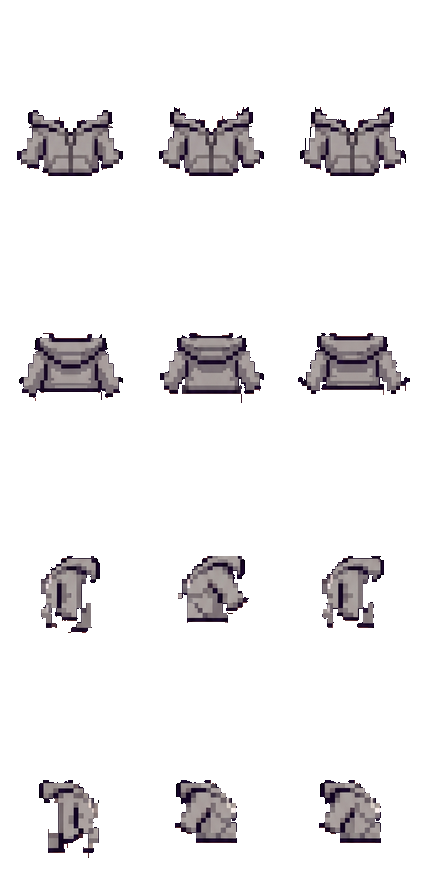
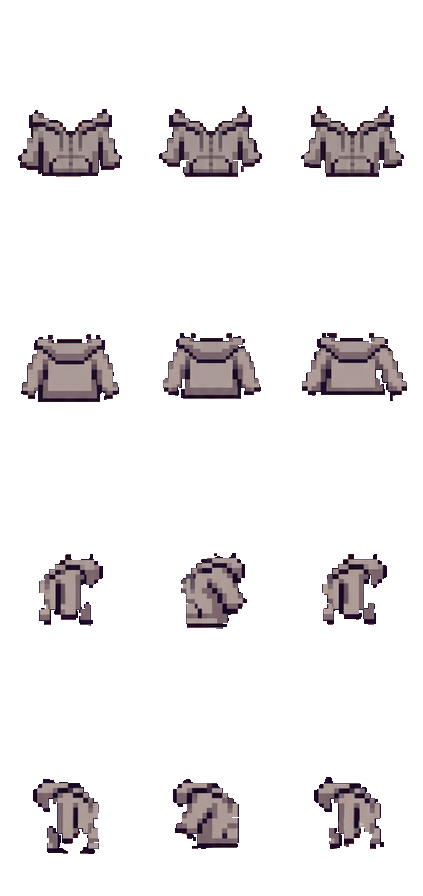
fix(char): 여캐 후드집업 재생성분 반영(우측 정지 해결) + 워터마크 제거, 흰티 최신 리터치본 반영

diff --git a/index.html b/index.html
@@ -2104,7 +2104,7 @@ window.CHAR_ITEMS = [
   // { id: 'hat_f_ladodgers', slot: 'hat', body: 'human_f', name: 'LA 볼캡', price: 0, sheet: 'char/items/hat_f_ladodgers.png', thumb: 'char/items/hat_ladodgers_thumb.png', hairVariants: { hair_f_basic: null, hair_f_bob_bang: null, hair_f_long: null } }
 ];
 // 아이템 이미지 캐시버전 — 아이템 시트/썸네일 바꿀 때마다 올리면 SW 캐시 무시하고 새로 받음
-window._ITEM_V = 107;
+window._ITEM_V = 108;
 window._iv = function (u) { return u ? (u + (u.indexOf('?') < 0 ? '?v=' : '&v=') + (window._ITEM_V || 1)) : u; };
 window.CHAR_FREE = ['hair_short', 'top_tee', 'mask_simple'];
 window.CHAR_SHAPES = {
@@ -7667,7 +7667,7 @@ document.getElementById('create-crew-panel').querySelector('.back-btn').addEvent
 
 // ===== 서비스 워커 등록 (PWA 홈화면 설치) =====
 // ★배포할 때 sw.js 의 murpy-vNNN 과 **같은 숫자로** 올릴 것. 이게 CDN 캐시를 깬다.
-window._SW_V = '348';
+window._SW_V = '349';
 // 마이페이지 하단 앱 정보에 현재 버전 표시
 try {
   window.addEventListener('load', function () {

diff --git a/sw.js b/sw.js
@@ -1,7 +1,7 @@
 // 배포마다 이 버전을 올려야 자동 새버전 적용(새로고침)이 동작함
-const CACHE_NAME = 'murpy-v348';
-const STATIC_CACHE = 'murpy-static-v348';
-const CDN_CACHE = 'murpy-cdn-v348';
+const CACHE_NAME = 'murpy-v349';
+const STATIC_CACHE = 'murpy-static-v349';
+const CDN_CACHE = 'murpy-cdn-v349';
 // 이미지 캐시는 버전 안 붙임 → 코드/HTML 배포해도 유지(URL이 곧 버전)
 const IMG_CACHE = 'murpy-img';
 

diff --git a/char/strip_wm_r3c2.py b/char/strip_wm_r3c2.py
@@ -1,0 +1,106 @@
+# -*- coding: utf-8 -*-
+"""제미나이 워터마크(✦) 제거 — 어떤 시트에도 쓰는 범용판.
+
+■ 알아낸 패턴 (2026-08-05)
+✦ 는 **항상 우하단 프레임 = 4행 3열(우측 걸음2)** 에 찍힌다.
+반투명 흰색이라 밑에 뭐가 있든 그 자리를 밝게 만든다.
+  - 어두운 옷(반바지) 위 → 어두운 것만 고르는 필터에 안 걸려 문제가 안 났다
+  - 흰 옷·살색 위 → 밝은 것을 고르는 필터를 그대로 통과해 옷으로 딸려 들어온다
+
+■ 방식
+없는 픽셀을 지어내지 않는다. **같은 행 c0 에서 그 자리를 그대로 옮겨 심는다.**
+✦ 판정 = "도너보다 눈에 띄게 밝아진 자리". 색으로 찾으면 못 잡는다
+(살색 위에서는 '밝은 살색'이라 무채색 조건에 안 걸린다 — 실제로 그렇게 놓쳤다).
+
+    python char/strip_wm_r3c2.py <시트.png>            # 찾기만
+    python char/strip_wm_r3c2.py <시트.png> --apply    # 제자리 수정(백업 남김)
+"""
+from __future__ import annotations
+
+import argparse
+import shutil
+import sys
+from pathlib import Path
+
+import numpy as np
+from PIL import Image
+from scipy import ndimage
+
+if hasattr(sys.stdout, "reconfigure"):
+    sys.stdout.reconfigure(encoding="utf-8", errors="replace")
+
+BRIGHT = 18      # 도너보다 이만큼 밝아지면 ✦ 로 본다
+GROW = 2         # 옅은 가장자리까지 걷어내려고 넓히는 횟수
+# ★몸통 구간으로 좁힌다. 안 좁히면 **다리가 가장 큰 덩어리로 잡힌다** —
+#   걸음 프레임마다 다리 위치가 달라 통째로 '밝아진 곳'이 되기 때문이다.
+#   실제로 후드집업에서 다리(7438px)를 워터마크(3512px)로 오인해 이식했다가 다리를 깨뜨렸다.
+ROI_Y0, ROI_Y1 = 0.53, 0.80
+ROI_X0, ROI_X1 = 0.28, 0.74
+
+
+def find_and_fix(a: np.ndarray, apply: bool):
+    h, w = a.shape[0] // 4, a.shape[1] // 3
+    oy, ox = 3 * h, 2 * w
+    A = a.astype(int)
+    tgt = A[oy:oy + h, ox:ox + w]
+    don = A[oy:oy + h, 0:w]                      # 같은 행 c0
+
+    op = tgt[:, :, 3] >= 128
+    od = don[:, :, 3] >= 128
+    both = op & od
+    if both.sum() < 1000:
+        return None, "겹치는 영역이 너무 적다"
+
+    roi = np.zeros((h, w), bool)
+    roi[int(h * ROI_Y0):int(h * ROI_Y1), int(w * ROI_X0):int(w * ROI_X1)] = True
+    bright = both & roi & ((tgt[:, :, :3].mean(axis=2) - don[:, :, :3].mean(axis=2)) > BRIGHT)
+    lab, n = ndimage.label(ndimage.binary_closing(bright, np.ones((3, 3), bool)), np.ones((3, 3), bool))
+    if not n:
+        return None, "밝아진 덩어리 없음 (✦ 가 없을 수 있다)"
+    sizes = ndimage.sum(bright, lab, range(1, n + 1))
+    wm = lab == int(np.argmax(sizes)) + 1
+    ys, xs = np.nonzero(wm)
+    info = (int(sizes.max()), int(xs.min()), int(xs.max()), int(ys.min()), int(ys.max()))
+
+    if apply:
+        m = ndimage.binary_dilation(wm, np.ones((3, 3), bool), iterations=GROW) & both
+        patch = a[oy:oy + h, 0:w]
+        dst = a[oy:oy + h, ox:ox + w]
+        dst[m] = patch[m]
+        info = info + (int(m.sum()),)
+    return info, None
+
+
+def main() -> int:
+    ap = argparse.ArgumentParser()
+    ap.add_argument("src")
+    ap.add_argument("--apply", action="store_true")
+    args = ap.parse_args()
+
+    p = Path(args.src)
+    if not p.exists():
+        print("!! 없음", p)
+        return 1
+    a = np.asarray(Image.open(p).convert("RGBA")).astype(np.uint8).copy()
+    h, w = a.shape[0] // 4, a.shape[1] // 3
+    print(f"{p.name}  {a.shape[1]}×{a.shape[0]}  셀 {w}×{h}")
+
+    info, err = find_and_fix(a, args.apply)
+    if err:
+        print("  " + err)
+        return 0
+    print(f"  ✦ 후보 {info[0]}px  셀내 x{info[1]}~{info[2]} y{info[3]}~{info[4]}")
+    if not args.apply:
+        print("  --apply 를 붙이면 도너 이식")
+        return 0
+
+    bak = p.with_name(p.stem + "_워터마크백업" + p.suffix)
+    if not bak.exists():
+        shutil.copy2(p, bak)
+    Image.fromarray(a, "RGBA").save(p)
+    print(f"  이식 {info[5]}px  -> 제자리 수정 (백업 {bak.name})")
+    return 0
+
+
+if __name__ == "__main__":
+    sys.exit(main())
